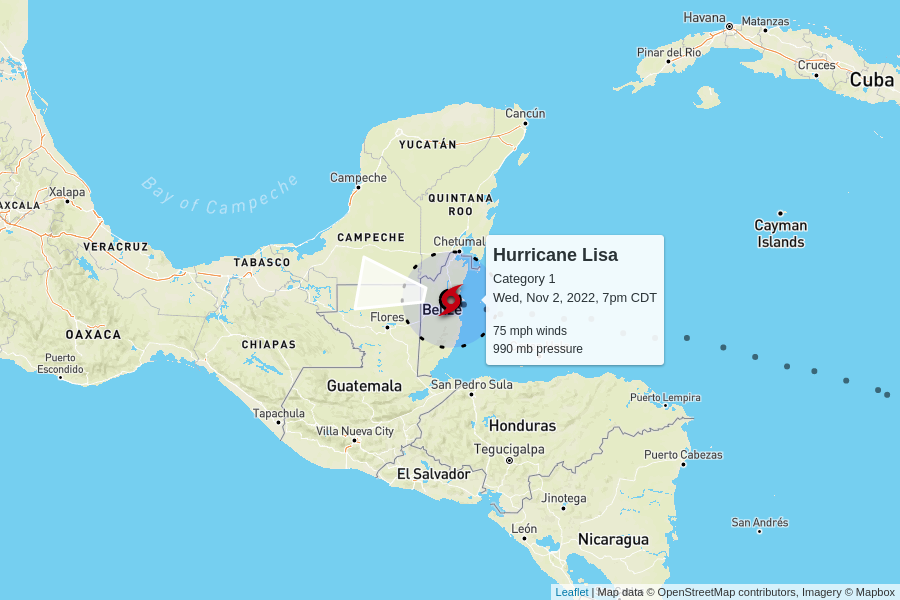
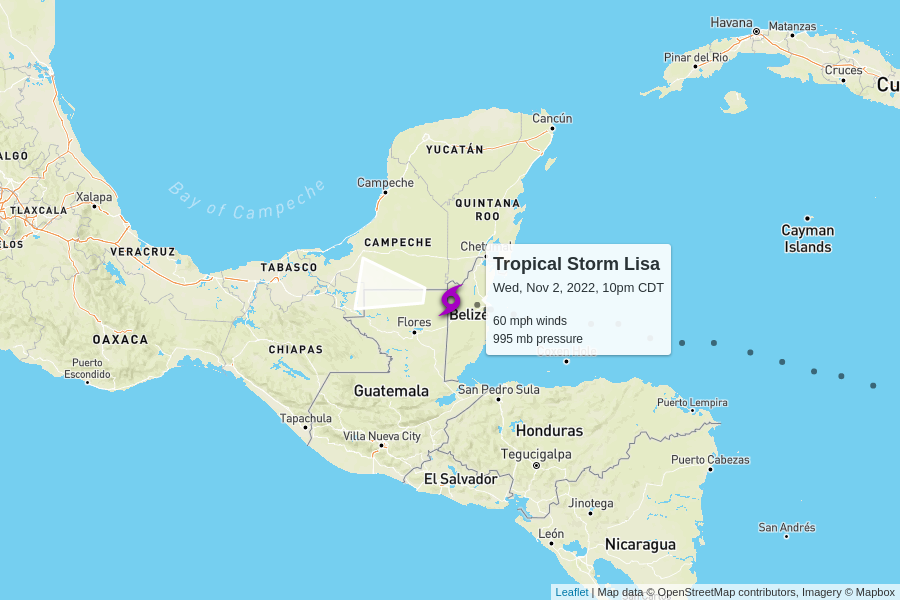
automatic update

diff --git a/docs/index.html b/docs/index.html
@@ -97,10 +97,10 @@
 
     <table>
       <tr>
-        <td colspan="6" class="storm category-1" >
+        <td colspan="6" class="storm category-0" >
           <h2>
-            Hurricane Lisa - Category 1
-            <p class="updated">last updated <span data-time>2022-11-03T00:00:00.000Z</span></p>
+            Tropical Storm Lisa
+            <p class="updated">last updated <span data-time>2022-11-03T03:00:00.000Z</span></p>
           </h2>
         </td>
       </tr>
@@ -115,8 +115,8 @@
       </tr>
       <tr>
         <td class="spacer"></td>
-        <td>75 mph</td>
-        <td>990 mb</td>
+        <td>60 mph</td>
+        <td>995 mb</td>
         <td>
           12 mph to the west
           <br/>
@@ -144,7 +144,7 @@
         <td colspan="6" class="storm category-1" >
           <h2>
             Hurricane Martin - Category 1
-            <p class="updated">last updated <span data-time>2022-11-02T21:00:00.000Z</span></p>
+            <p class="updated">last updated <span data-time>2022-11-03T03:00:00.000Z</span></p>
           </h2>
         </td>
       </tr>
@@ -160,11 +160,11 @@
       <tr>
         <td class="spacer"></td>
         <td>85 mph</td>
-        <td>974 mb</td>
+        <td>973 mb</td>
         <td>
-          31 mph to the northeast
+          39 mph to the northeast
           <br/>
-          <span style="display: inline-block; font-size: 1.5em; transform: rotate(45deg);">↑</span>
+          <span style="display: inline-block; font-size: 1.5em; transform: rotate(40deg);">↑</span>
         </td>
         <td><a href="https://raw.githubusercontent.com/mgwalker/atlantic-hurricanes/main/data/csv/AL162022.csv">AL162022.csv</a></td>
         <td><a href="https://www.nhc.noaa.gov/archive/2022/MARTIN.shtml?">NHC advisories</a></td>
